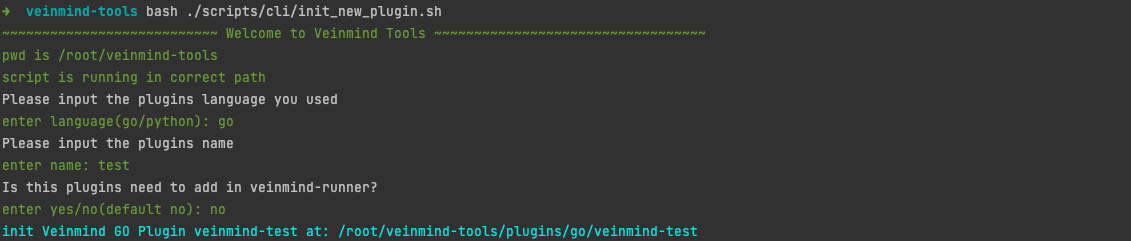
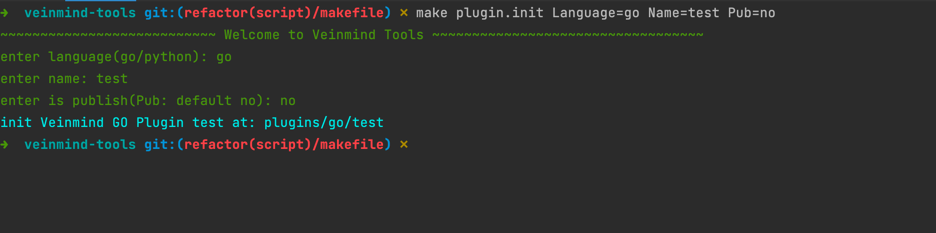
refactor(script): use makefile (#180)

diff --git a/example/README.md b/example/README.md
@@ -2,10 +2,14 @@
 
 快速的初始化一个veinmind插件
 
-+ step.1 确保当前目录处于`./veinmind-tools`的项目目录下  
-+ step.2 运行 `bash ./scripts/cli/add_a_new_plugin.sh`  
-+ step.3 在`plugins/go`或`plugins/python`目录下将出现对应初始化的插件目录   
-+ step.4 在`cmd/cli.go`或`scan.py`函数内编写你自己的扫描逻辑  
+`make plugin.init `
 
+参数：
+
++ Name: 必填, 插件名称
++ Language: 插件语言类型, 可选: go/python, 默认go
++ Pub: 是否加入到runner, yes/no, 默认no
+
+示例:
 
 ![demo](../docs/veinmind-example/exampledemo.png)

diff --git a/example/README.en.md b/example/README.en.md
@@ -2,10 +2,14 @@
 
 for fast auto init a veinmind example plugin
 
-+ step.1 make sure you are at `./veinmind-tools` catalog  
-+ step.2 run `bash ./scripts/cli/add_a_new_plugin.sh`  
-+ step.3 there will be your plugin catalog in `plugins/go` or `plugins/python`     
-+ step.4 coding your scan logic in `cmd/cli.go` or `scan.py`   
+`make plugin.init `
 
+params:
+
++ Name: Must, your plugin name
++ Language: plugin use language type, select go/python, default go
++ Pub: do you want to add your plugin to runner? yer/no, default no
+
+example:
 
 ![demo](../docs/veinmind-example/exampledemo.png)
